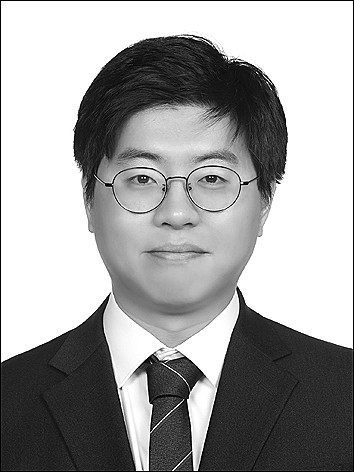
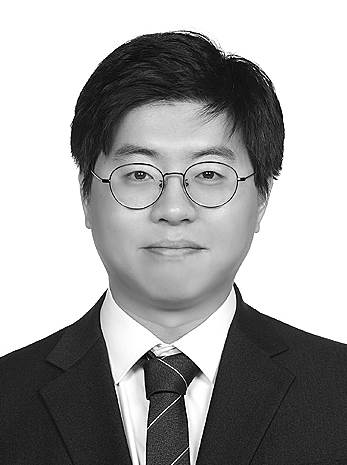
Changed advisor's photo

diff --git a/team.html b/team.html
@@ -672,10 +672,10 @@ header:
       <div class="col-sm-3 photo">
         <picture>
           <source
-            media="(max-height: 467px)"
-            srcset="/assets/images/members/700px/namshik_han.jpg">
+            media="(max-width: 770px)"
+            srcset="/assets/images/members/700px/namshik_han.jpeg">
           <img
-            src="/assets/images/members/700px/namshik_han.jpg"
+            src="/assets/images/members/700px/namshik_han.jpeg"
             alt="Namshik Han">
         </picture>
       </div>
@@ -691,10 +691,10 @@ header:
       <div class="col-sm-3 photo">
         <picture>
           <source
-            media="(max-height: 467px)"
-            srcset="/assets/images/members/700px/seunghoon_hong.jpg.jpg">
+            media="(max-width: 770px)"
+            srcset="/assets/images/members/700px/seunghoon_hong.jpeg">
           <img
-            src="/assets/images/members/700px/seunghoon_hong.jpg"
+            src="/assets/images/members/700px/seunghoon_hong.jpeg"
             alt="Seungkwon Cho">
         </picture>
       </div>
